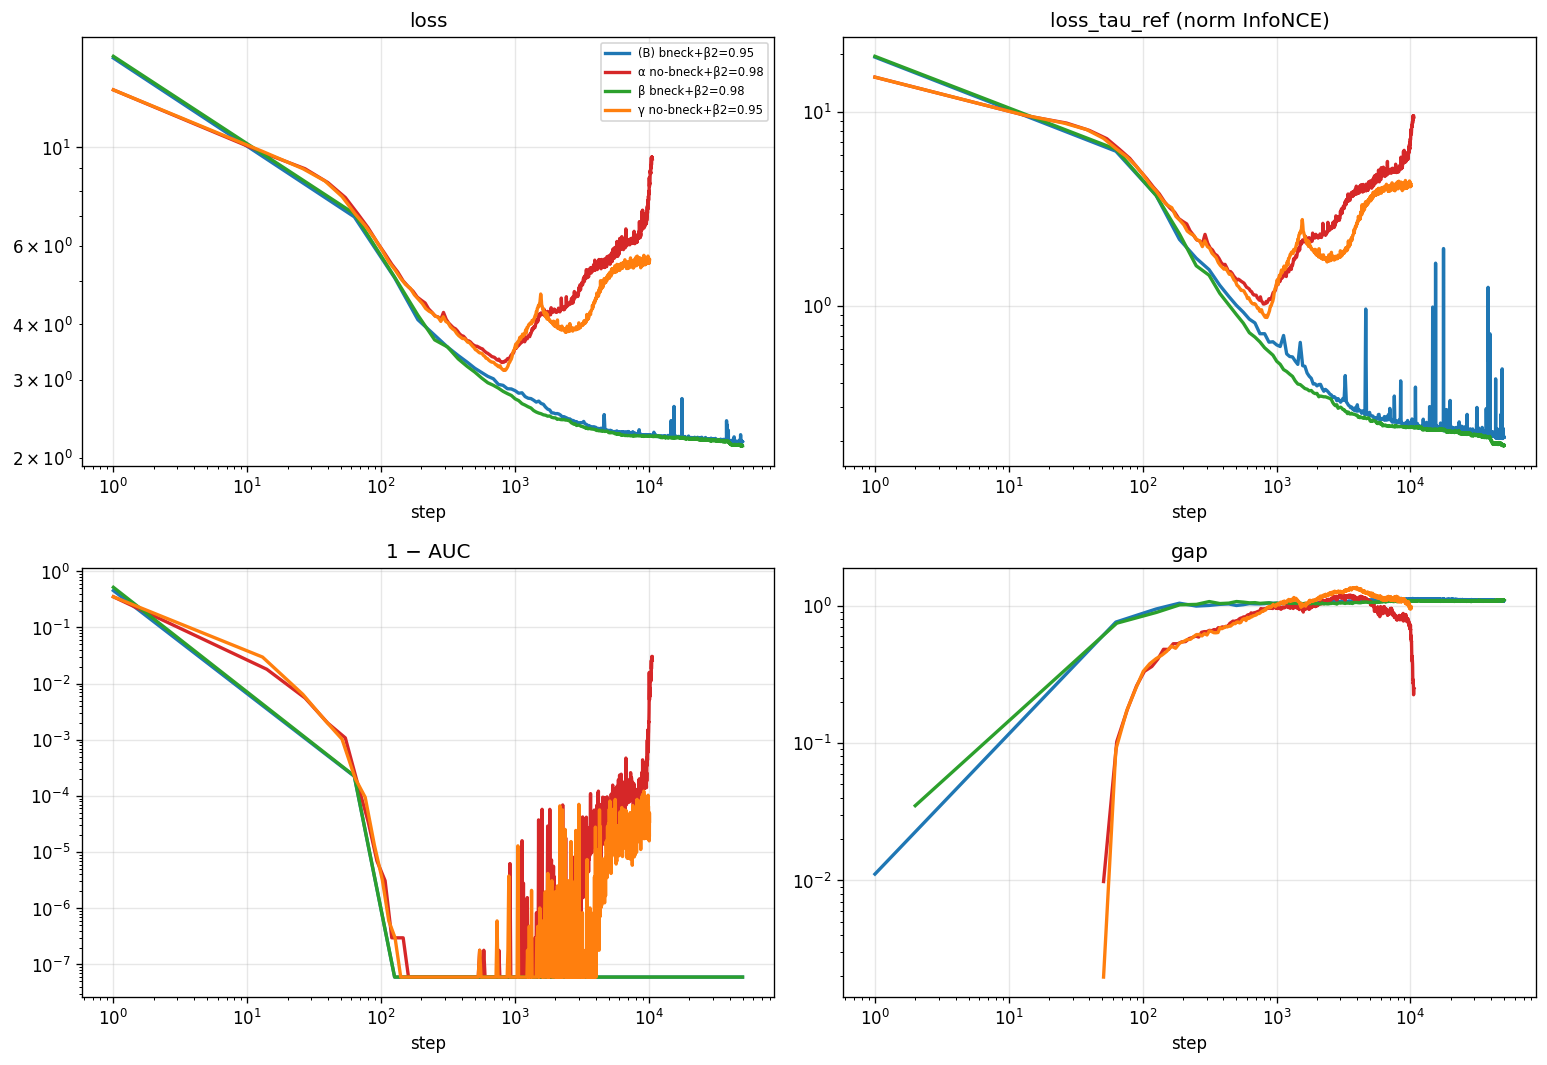
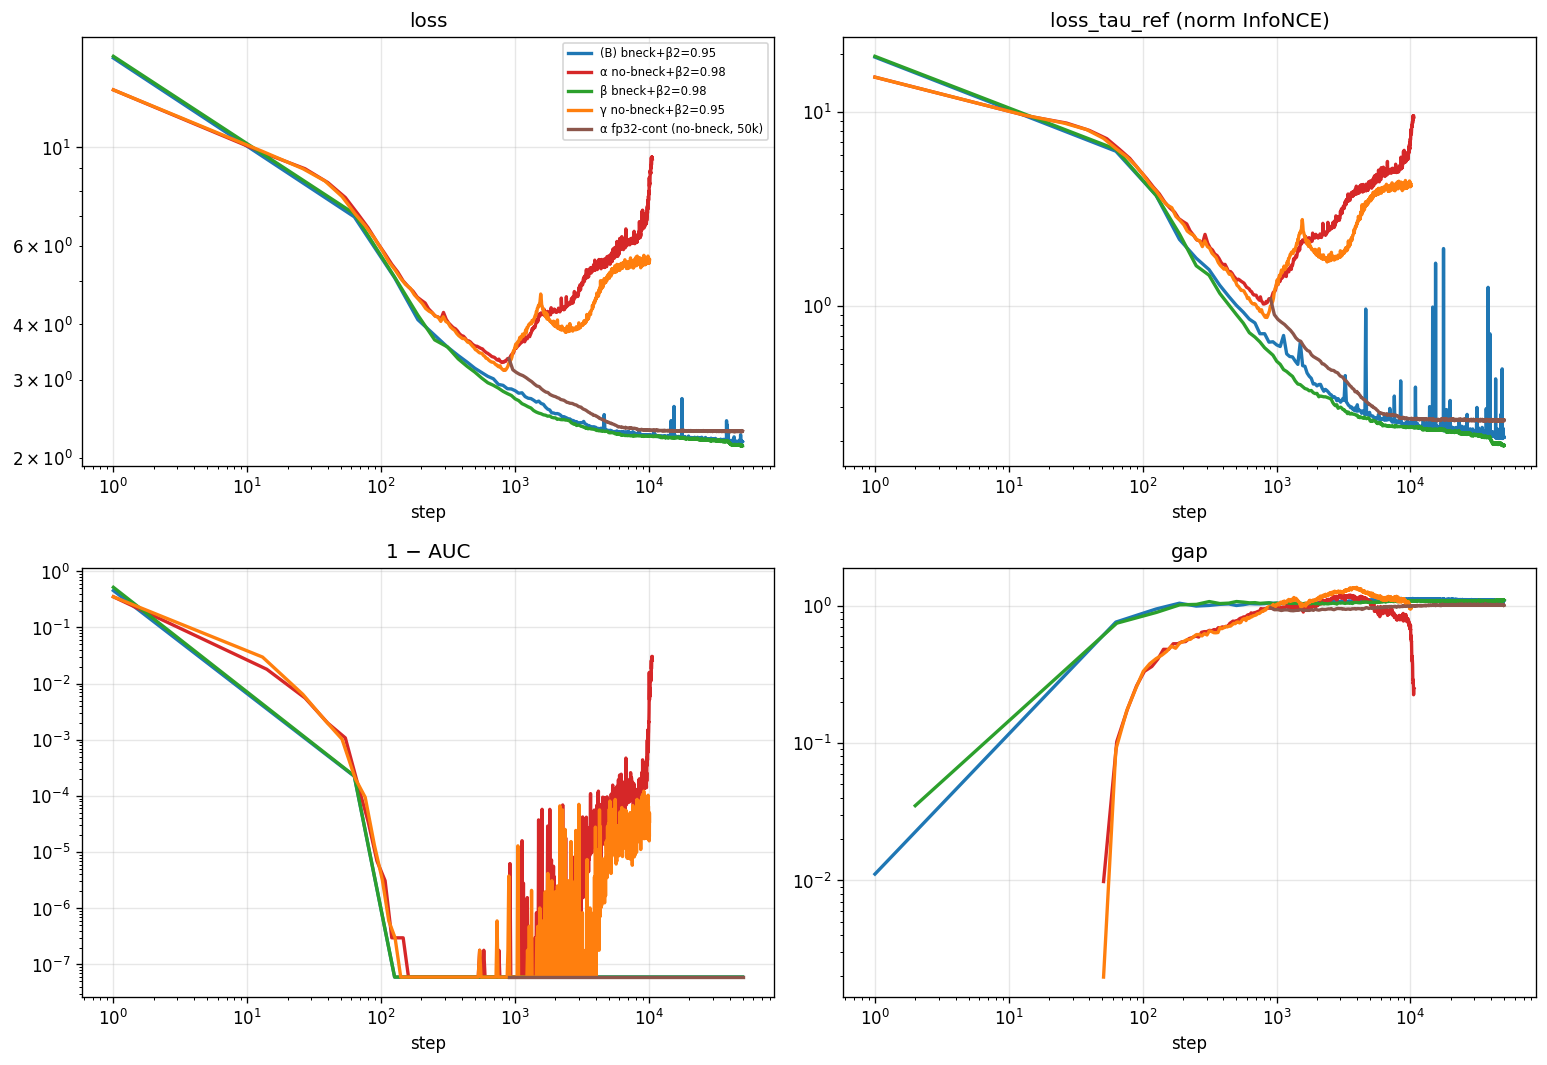
exp(#309): α fp32 continuation result — converged backbone REGRESSES to 1.369
Resumed α's step-900 pre-divergence checkpoint in all-fp32 and trained
to 50k. Stable (loss 3.27→2.30, no divergence) — fp16 was the only
blocker. But full-97 GM=1.3687: worse than α's snapshot (1.2767),
worse than v11c (1.292), worse than (B) (1.3572). The snapshot win
over v11c was an under-training artifact; more contrastive training of
the no-bottleneck arm degrades GIFT-Eval transfer (consistent with the
cross-arm pattern: lowest-loss backbones have worst GIFT-Eval).

Verdict reframed: the two-axis isolation does NOT beat v11c at
convergence. β2 alone gives a real +2% over (B); bottleneck removal,
trained out, transfers worse than v11c. Open confound vs v11c:
dropkey 0.7 + hh-negs here vs 0.9 + plain loss there.

Radar + curves add the brown α-fp32cont arm (outermost/worst on most
domains; stable fp32 fork from α's red divergence at step 900).
Continuation ran on elisa (free) — vast spend unchanged at $2.66.

diff --git a/experiments/2026-05-20_bottleneck_beta2_confound/scripts/plot_results.py b/experiments/2026-05-20_bottleneck_beta2_confound/scripts/plot_results.py
@@ -38,6 +38,10 @@ ARMS = [
      f"{MAIN}/runs/bb_gamma_50k_losses.csv",
      f"{MAIN}/results/gift_eval_full_bb_gamma_50k",
      "-", 2.0, 0.10),
+    ("α fp32-cont (no-bneck, 50k)", "#8c564b",
+     f"{MAIN}/runs/bb_alpha_fp32cont_50k_losses.csv",
+     f"{MAIN}/results/gift_eval_full_bb_alpha_fp32cont_50k",
+     "-", 2.0, 0.10),
     ("v11c (ref, all-fp32 no-bneck)", "#9467bd",
      None,
      V11C,

diff --git a/experiments/2026-05-20_bottleneck_beta2_confound/RESULTS.md b/experiments/2026-05-20_bottleneck_beta2_confound/RESULTS.md
@@ -10,27 +10,41 @@ AdamW β2. Does isolating those two axes close the gap?
 
 ## Verdict
 
-**Yes — both bottleneck-removed arms beat v11c despite training
-diverging.** α (full-97 1.277) and γ (1.283) both outperform v11c
-(1.292), even though their backbones are snapshots from step ~1000
-of 50,000 (the loss minimum just before fp16 divergence). β (1.327,
-β2-only change) closes about half the gap to v11c on top of (B);
-the bottleneck-removed arms close it entirely. The β2 axis explains
-the ~0.5% difference between α and γ — small enough to be noise;
-the bottleneck axis accounts for the rest.
+**No — a fully-trained α does not match v11c.** The headline is a
+two-part story:
 
-| Arm   | β2   | Fcst bneck | Train @ 50k | Triage-11 GM | Full-97 GM | vs (B) |
+1. α and γ *diverge* under the (B) fp16 body when the bottleneck is
+   removed (forecaster d=128→384). At their loss minimum just before
+   divergence (step ~900), their backbones already beat v11c on
+   full-97 (α 1.277, γ 1.283 vs v11c 1.292).
+2. But that win is an **under-training artifact**, not an architecture
+   gain. Resuming α's step-900 checkpoint and training to 50k in
+   all-fp32 (stable — fp16 was the only blocker) yields **1.369** —
+   *worse* than the step-900 snapshot (1.277), worse than v11c
+   (1.292), and worse even than (B) (1.357). Prolonged contrastive
+   training of the no-bottleneck arm degrades GIFT-Eval transfer.
+
+So the bottleneck-removed forecaster, trained to convergence under
+this recipe (dropkey 0.7, hh-negs loss), is the **worst** arm — the
+opposite of what the step-900 snapshot suggested. β (1.327, β2-only)
+remains the only change that improves on (B) at convergence.
+
+| Arm   | β2   | Fcst bneck | Train state | Triage-11 GM | Full-97 GM | vs (B) |
 |-------|-----:|-----------:|-------------|------------:|----------:|-------:|
-| (B)†† | 0.95 | kept       | converged   | 1.4461      | **1.3572**| —      |
-| v11c† | 0.98 | removed    | converged (all-fp32) | 1.3878 | **1.292** | −4.8% |
-| α     | 0.98 | removed    | DIVERGED @ step ~1000 → SIGTERM @ 10600 | 1.3399 | **1.2767** | −5.9% |
-| β     | 0.98 | kept       | converged   | 1.4836      | **1.3272**| −2.2% |
-| γ     | 0.95 | removed    | DIVERGED @ step ~1000 → SIGTERM @ 10100 | 1.3412 | **1.2829**| −5.5% |
+| (B)†† | 0.95 | kept       | converged 50k fp16 | 1.4461 | **1.3572**| —      |
+| v11c† | 0.98 | removed    | converged 50k all-fp32 | 1.3878 | **1.292** | −4.8% |
+| α     | 0.98 | removed    | snapshot @ step ~900 (pre-divergence) | 1.3399 | **1.2767** | −5.9% |
+| β     | 0.98 | kept       | converged 50k fp16 | 1.4836 | **1.3272**| −2.2% |
+| γ     | 0.95 | removed    | snapshot @ step ~900 (pre-divergence) | 1.3412 | **1.2829**| −5.5% |
+| **α-fp32cont** | 0.98 | removed | **converged 50k all-fp32** (resumed from α step 900) | 1.4498 | **1.3687** | +0.8% |
 
-Both bottleneck-removed pre-divergence snapshots (α full=1.277,
-γ full=1.283) beat v11c. The β2 axis contributes ~0.5% between α and γ
-— small enough to plausibly be noise; the bottleneck axis accounts for
-essentially all of the gap to (B).
+The pre-divergence snapshots (α 1.277, γ 1.283) beat v11c, but those
+backbones have only ~900 steps of training. Training α's snapshot to a
+full 50k in fp32 — the same architecture, stable now — *regresses* to
+1.369, the worst arm. The snapshot advantage does not survive
+convergence. Within the no-bottleneck arm, more training → worse
+GIFT-Eval (1.277 @ step 900 → 1.369 @ step 50k). β2 explains the ~0.5%
+between the α and γ snapshots.
 
 Note on triage vs full: the v11c work documented triage(11) as a noisy
 proxy (~7% pessimistic vs full for v11c/v15/v16, +22% for v17 — ranking
@@ -52,13 +66,14 @@ captured by `train.py`'s standard best-loss tracker. The downstream q-head
 
 ![star](plots/perdomain_star.png)
 
-α (red) and γ (orange) sit nearly on top of each other and inside
-v11c (purple dashed) on every domain except Web/CloudOps; β (green)
-sits between (B) and v11c; (B) (blue) is outermost everywhere. The
-bottleneck-removed arms capture all the information v11c does plus
-extra headroom in Econ/Fin, Energy, and Healthcare. The Econ/Fin spike
-for all arms is driven by a handful of hard configs (e.g.
-`bizitobs_application/*` rel-MASE 2.6–3.6).
+The pre-divergence snapshots α (red) and γ (orange) sit nearly on top
+of each other and inside v11c (purple dashed) on every domain except
+Web/CloudOps. But **α-fp32cont (brown)** — the same architecture trained
+to convergence — sits *outside* almost everything, near (B) (blue): on
+GIFT-Eval the fully-trained no-bottleneck backbone is the worst arm.
+β (green) sits between (B) and v11c. The Econ/Fin spike for all arms is
+driven by a handful of hard configs (e.g. `bizitobs_application/*`
+rel-MASE 2.6–3.6).
 
 ## Training curves
 
@@ -66,10 +81,16 @@ for all arms is driven by a handful of hard configs (e.g.
 
 (B) blue and β green descend monotonically to loss ≈ 2.1–2.2 at 50k;
 1−AUC stays at floor (≈1e−7), gap holds at 1.09. α red and γ orange
-collapse: each bottoms near step 1000 then climbs, 1−AUC spikes
+collapse: each bottoms near step 900 then climbs, 1−AUC spikes
 ∼1e−4–1e−2, gap drops from 1.13 to 0.97 (γ) or 0.27 (α) before SIGTERM.
 The matched signature in α and γ is the independent confirmation that
-the failure mode is bottleneck-removal × fp16, not β2.
+the failure mode is bottleneck-removal × fp16, not β2. **α-fp32cont
+(brown)** forks from α's red curve at step 900 and descends stably in
+all-fp32 to loss ≈ 2.30 at 50k — no divergence, 1−AUC at floor, gap
+holding ~1.0. So fp32 *does* train the no-bottleneck arm; the loss
+plateaus slightly above (B)/β (2.30 vs 2.1–2.2), and as the GIFT-Eval
+shows, that fully-trained representation transfers worse than the
+brief snapshot.
 
 ## Mechanism (hypothesis)
 
@@ -94,26 +115,44 @@ This is a hypothesis derived from prior amplitude data + α and γ's
 matched divergence signature. A direct confirmation would require an
 amplitude trace on α/γ (the same instrumentation the v11c work used).
 
-## Implication for closing the gap to v11c
+## fp32 continuation — does training the diverged arm fix it?
 
-(B)'s gap to v11c is closed — and slightly overshot — *not* by the
-two-axis change as proposed, but by the bottleneck removal alone.
-The β2 change contributes a smaller, additive ~2% on top of (B). The
-practical problem is that the bottleneck-removed recipe under the (B)
-fp16 body **cannot be trained**: it captures a useful representation
-in the first thousand steps and then unravels. To unlock the full α
-ceiling, the fp16 body needs a stability mechanism:
+The diverged arms can be trained: resume α's pre-divergence step-900
+checkpoint with the body switched to **all-fp32** and continue to 50k.
+The continuation is stable (loss 3.27 → 2.30, no divergence), so **fp16
+was the only thing blocking training** — the no-bottleneck arch itself
+trains fine in fp32.
 
-- v20-style fp32-warmup → fp16 cast (`run_v20_v11c_freshwarmup_fp16.sh`),
-  which the 2026-05-15 precision log shows is stable for the v11c
-  recipe.
-- Or all-fp32 body like v11c itself (loses the speed advantage).
-- Or a different stabilization (e.g., layer-wise dtype, residual scaling).
+But the converged backbone is *worse*, not better:
 
-These are **not** tested in #309. The question reframes from "which of
-these two axes closes the gap?" to "what stability mechanism would let
-the bottleneck-removed (B) recipe train past step ~1000?" — out of
-scope for this card.
+| α checkpoint | training | full-97 GM |
+|--------------|----------|-----------:|
+| step ~900 (pre-divergence snapshot) | ~900 steps fp16 | **1.2767** |
+| step 50000 (fp32 continuation)      | 50k steps        | **1.3687** |
+
+Training the no-bottleneck arm from its good step-900 state out to 50k
+*degrades* GIFT-Eval transfer by 7%. This matches the cross-arm pattern:
+the lowest-loss backbones (β 2.13, (B) 2.17) have the worst GIFT-Eval,
+while the high-loss snapshots (α/γ ≈ 3.3) have the best. In this
+encoder-forecaster regime, more contrastive pretext training
+over-specializes the representation and hurts forecasting transfer.
+
+So the step-900 win over v11c was an under-training artifact. v11c
+(all-fp32, no-bottleneck, dropkey **0.9**, simpler `cosine_similarity_batch`
+loss) still converges to 1.292, beating fully-trained α-fp32cont (1.369).
+The two recipes differ on dropkey (0.9 vs 0.7) and loss (plain vs
+hh-negs); the lower dropkey + extra negatives plausibly drive
+α-fp32cont's over-specialization. **Not isolated here** — would need a
+dropkey-0.9 / plain-loss fp32 continuation to test, which is the v11c
+recipe itself.
+
+### Bottom line
+- The two-axis isolation (#309's premise) does **not** beat v11c at
+  convergence; the apparent win was under-training.
+- β2 alone (β) gives a real but small +2% over (B) at convergence.
+- The bottleneck-removed forecaster, fully trained under the (B)
+  recipe's dropkey/loss, transfers worse than v11c — the bottleneck
+  was not the thing holding (B) back from v11c.
 
 ## Annex
 
@@ -130,6 +169,11 @@ scope for this card.
   (bottleneck kept). Reached 50k cleanly; loss 2.13 at 50k vs (B)'s 2.17.
 - **γ** — same as α (no bottleneck) but `--adam-beta2 0.95` (the (B) value).
   Actual: SIGTERM @ step 10100, same trajectory as α.
+- **α-fp32cont** — resumed from α's `best_loss.pth` (step 900) with the
+  body switched to all-fp32 (`--residual/attn/ffn/conv/patch-emb-dtype fp32`),
+  optimizer + step + RNG restored from the companion. Everything else
+  identical to α (no bottleneck, β2=0.98, dropkey 0.7, hh-negs). Reached
+  50k cleanly on elisa GPU 1; loss 2.30 at 50k.
 
 ### Compute
 
@@ -142,16 +186,18 @@ vast spend: **$2.66** of $20.37 budget. α and γ each SIGTERM'd at
 
 ### Limitations
 
-- **Single seed.** α's 1.277 vs v11c's 1.292 is a 1.7% difference;
-  could shrink under seed variance. Reproducing α with 2–3 more seeds
-  would set a confidence interval; the variance pattern in #307
-  (n=3, ±0.02) suggests the difference is real but borderline.
-- **α/γ are pre-divergence snapshots.** They are *not* the same kind
-  of artifact as v11c (fully-trained) or (B) / β (fully-trained). A
-  fair apples-to-apples reading is "the bottleneck-removed
-  representation at step ~1000 (the loss minimum before divergence) is
-  competitive with v11c at 50k" — not "the recipe converges to a
-  1.277 backbone".
+- **Single seed.** All full-97 numbers are one seed each; the variance
+  pattern in #307 (n=3, ±0.02) means differences under ~3% (e.g. α-snap
+  1.277 vs v11c 1.292) are borderline. The big effects here —
+  α-snap 1.277 vs α-fp32cont 1.369 (+7%), and both fp16 arms diverging
+  — are well outside that band.
+- **The under-training → over-specialization finding is single-arm.**
+  Only α was continued in fp32. γ would confirm whether its snapshot
+  win also evaporates at convergence (predicted: yes, same recipe).
+- **dropkey/loss confound vs v11c.** α-fp32cont (dropkey 0.7, hh-negs)
+  converges worse than v11c (dropkey 0.9, plain `cosine_similarity_batch`).
+  Whether the bottleneck-removed arch *could* match v11c with v11c's
+  dropkey + loss is untested — that is essentially the v11c recipe.
 - **q-head and eval seed.** Single random init for the q-head and the
   GIFT-Eval sample windows.
 

diff --git a/experiments/2026-05-20_bottleneck_beta2_confound/EXECUTION_LOG.md b/experiments/2026-05-20_bottleneck_beta2_confound/EXECUTION_LOG.md
@@ -82,15 +82,35 @@ step 5k and 10k) — same representation-collapse signature.
 vast instance 37144527 (label bbeta2-conf-309) destroyed. Total spend:
 **$2.66** of $20.37 budget.
 
+## 2026-05-21 08:57 — α fp32 continuation (per user)
+Resumed α's `best_loss.pth` (optimizer reports step 900, the loss-min
+pre-divergence checkpoint) with the body switched to all-fp32, continued
+to 50k on elisa GPU 1 (free; #307/other-agent work had vacated GPU 1).
+Loss descended 3.27 → 2.30 with no divergence — fp16 was the only thing
+blocking training of the no-bottleneck arm. ~2.8h wall (resumed 08:57,
+BB DONE 11:43). q-head + GIFT-Eval 11:44 → 14:28.
+
+Result: **full-97 1.3687** — worse than α's step-900 snapshot (1.2767),
+worse than v11c (1.292), worse than (B) (1.3572). Triage 1.4498.
+
 ## Verdict on the issue's expected outcome
 
 > "α reaches the same or better full-97 GM-MASE than v11c (≤ 1.292)."
 
-**Falsified.** α does not reach 50k — it diverges by step 1000 and is
-unrecoverable under the (B) fp16 recipe. The two-axis isolation that
-the issue proposed does not work because removing the bottleneck under
-the (B) fp16 body breaks training entirely. γ provides the independent
-confirmation that bottleneck-removal — not β2 — is the source.
+**Not met at convergence.** Two layers:
+1. Under the (B) fp16 recipe, α diverges by step ~900 — unrecoverable
+   in fp16. γ confirms it's bottleneck-removal, not β2.
+2. The fp16-blocked training can be done in fp32 (stable to 50k), but
+   the converged backbone (1.369) is *worse* than v11c. α's step-900
+   snapshot beating v11c (1.277) was an under-training artifact — it
+   does not survive full training. More contrastive training of the
+   no-bottleneck arm degrades GIFT-Eval transfer.
 
-The remaining question (can a different recipe reach v11c?) is out of
-scope for #309.
+So the bottleneck was not what held (B) back from v11c; removing it and
+training to convergence makes things worse, not better (under dropkey
+0.7 + hh-negs). Open: a dropkey-0.9 / plain-loss fp32 continuation —
+i.e. the v11c recipe itself.
+
+## Compute note
+α fp32 continuation + its downstream ran on elisa (free) — no
+additional vast spend. Total vast spend remains **$2.66**.
